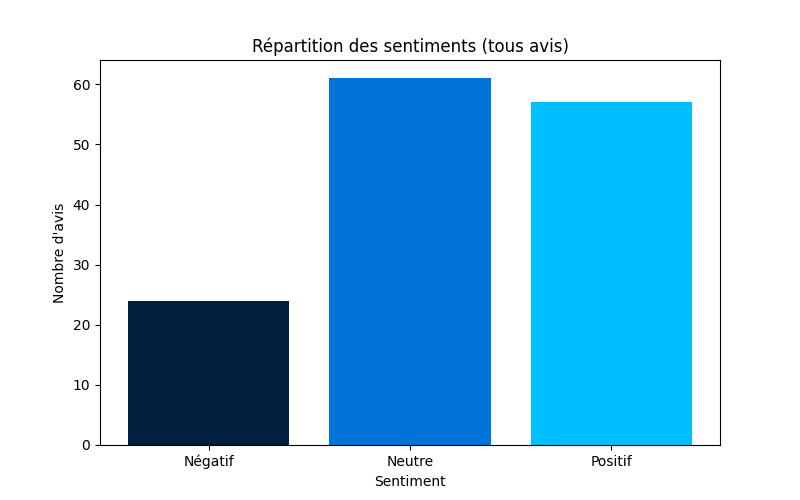
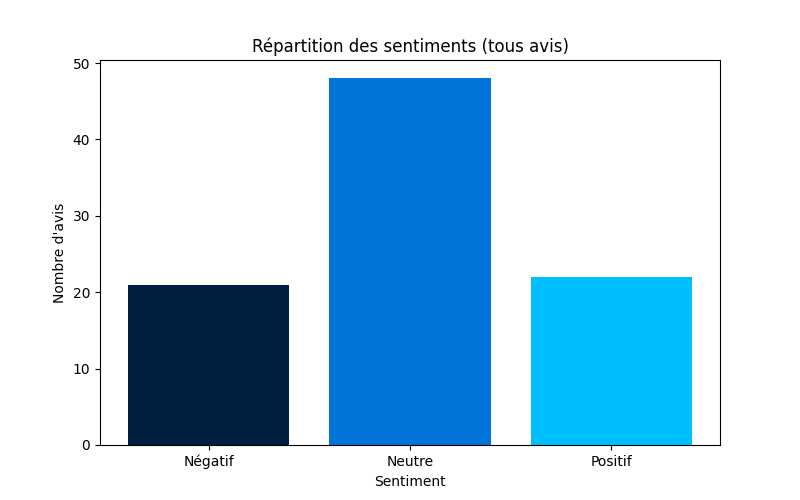
new update

diff --git a/src/main.py b/src/main.py
@@ -1,43 +1,40 @@
 import matplotlib.pyplot as plt
-from pyspark.sql import SparkSession
-from pyspark.sql.functions import col, lower, when, rand
-from pyspark.ml.feature import Tokenizer, StopWordsRemover, HashingTF, IDF, StringIndexer
-from pyspark.ml.classification import LogisticRegression
-from pyspark.ml import Pipeline
-from pyspark.ml.evaluation import MulticlassClassificationEvaluator
-from pyspark import SparkConf, SparkContext
-from prettytable import PrettyTable
-
 import json
 from pathlib import Path
+from prettytable import PrettyTable
+from pyspark import SparkConf, SparkContext
+from pyspark.sql import SparkSession
+from pyspark.sql.functions import col, lower, when
+from pyspark.ml import Pipeline
+from pyspark.ml.feature import Tokenizer, StopWordsRemover, HashingTF, IDF, StringIndexer
+from pyspark.ml.classification import LogisticRegression
+from pyspark.ml.evaluation import MulticlassClassificationEvaluator
 
-# Configuration Spark
+# 🔧 Configuration Spark
 conf = SparkConf().setAppName("SentimentAnalysisMP2L").setMaster("local[*]") \
     .set("spark.executor.memory", "4g") \
     .set("spark.driver.memory", "4g")
 sc = SparkContext(conf=conf)
 spark = SparkSession.builder.getOrCreate()
 
-# Dossiers
+# 📁 Définition des chemins
 BASE_DIR = Path(__file__).resolve().parent.parent
 DATA_PATH = BASE_DIR / "data" / "avis_etudiants_dataset.csv"
 OUTPUT_DIR = BASE_DIR / "output"
 OUTPUT_DIR.mkdir(exist_ok=True)
 
-# Charger les données
+# 📄 Chargement des données CSV
 df = spark.read.csv(str(DATA_PATH), header=True, inferSchema=True)
 df = df.select("Text", "Matière", "Semestre", "Annee").na.drop()
 
-# Nettoyage et labellisation manuelle
+# 🧹 Nettoyage + Labellisation automatique
 df = df.withColumn("Sentiment",
     when(lower(col("Text")).rlike(".*(pas|nul|difficile|compliqué|mauvais|incompréhensible).*"), "negative")
     .when(lower(col("Text")).rlike(".*(bon|utile|clair|intéressant|super|excellent|parfait|facile|bien|génial).*"), "positive")
     .otherwise("neutral")
 )
 
-
-
-# Pipeline NLP + Classification
+# 🛠 Création du pipeline NLP + Classification
 indexer = StringIndexer(inputCol="Sentiment", outputCol="label")
 tokenizer = Tokenizer(inputCol="Text", outputCol="words")
 remover = StopWordsRemover(inputCol="words", outputCol="filtered")
@@ -46,33 +43,44 @@ idf = IDF(inputCol="rawFeatures", outputCol="features")
 lr = LogisticRegression(maxIter=10, regParam=0.001)
 
 pipeline = Pipeline(stages=[indexer, tokenizer, remover, hashingTF, idf, lr])
-train, test = df.randomSplit([0.7, 0.3])
+
+# 🧪 Split des données
+train, test = df.randomSplit([0.8, 0.2])
 model = pipeline.fit(train)
 
-# Prédictions
+# 🤖 Prédictions
 predictions = model.transform(test)
 
-# Évaluation
+# 📊 Évaluation du modèle
 evaluator = MulticlassClassificationEvaluator(labelCol="label", predictionCol="prediction", metricName="accuracy")
 accuracy = evaluator.evaluate(predictions)
 
-# Exemple d'affichage
+# 📝 Affichage d'exemples sous forme de tableau
 table = PrettyTable()
 table.field_names = ["📝 Avis", "🎯 Réel", "🤖 Prédit"]
+
 labels_mapping = indexer.fit(df).labels
 labels_dict = {i: label for i, label in enumerate(labels_mapping)}
 
-rows = predictions.select("Text", "Sentiment", "prediction").take(10)
+rows = predictions.select("Text", "Sentiment", "prediction").take(15)
 for row in rows:
     texte = row.Text[:60].replace("\n", " ") + "..."
     sentiment = row.Sentiment
-    prediction = labels_dict[int(row.prediction)] if int(row.prediction) in labels_dict else "?"
+    prediction = labels_dict.get(int(row.prediction), "?")
     table.add_row([texte, sentiment, prediction])
 
 print("\n📊 Exemples de prédictions :")
 print(table)
 
-# Graphique global
+# 💾 Enregistrement du tableau dans un fichier texte
+result_txt_path = OUTPUT_DIR / "results.txt"
+with open(result_txt_path, "w", encoding="utf-8") as f:
+    f.write("📊 Exemples de prédictions :\n")
+    f.write(str(table))
+
+print(f"📄 Tableau des prédictions enregistré dans : {result_txt_path}")
+
+# 📊 Graphique : répartition des sentiments
 sentiment_counts = predictions.groupBy("Sentiment").count().collect()
 sentiment_map = {"negative": 0, "neutral": 0, "positive": 0}
 for row in sentiment_counts:
@@ -91,23 +99,24 @@ plt.close()
 
 print(f"\n✅ Précision du modèle : {accuracy:.2f}")
 print(f"📁 Graphique enregistré : {OUTPUT_DIR / 'results.png'}")
+print(f"📁 Tableau enregistré : {OUTPUT_DIR / 'results.txt'}")
 
-# Sauvegarde des prédictions par année
+
+# 📈 Regroupement des sentiments par année
 par_annee = predictions.groupBy("Annee", "Sentiment").count().collect()
 grouped_data = {}
 for row in par_annee:
     annee = str(row["Annee"])
     sentiment = row["Sentiment"]
     count = row["count"]
-    if annee not in grouped_data:
-        grouped_data[annee] = {}
-    grouped_data[annee][sentiment] = count
+    grouped_data.setdefault(annee, {})[sentiment] = count
 
-# Enregistrement dans un fichier JSON
+# 💾 Sauvegarde en JSON
 json_path = OUTPUT_DIR / "sentiments_par_annee.json"
 with open(json_path, 'w', encoding='utf-8') as f:
     json.dump(grouped_data, f, ensure_ascii=False, indent=2)
 
 print(f"📄 Données par année enregistrées dans : {json_path}")
 
+# 🛑 Fermeture de Spark
 spark.stop()
